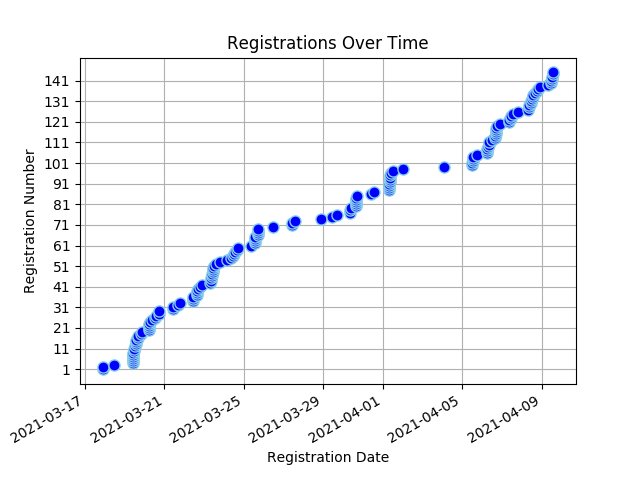
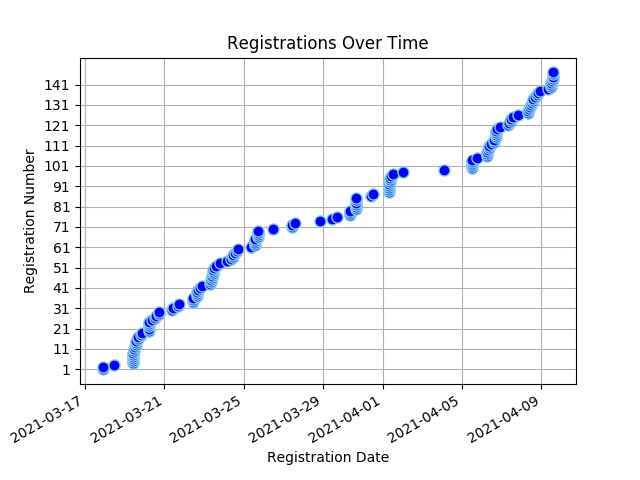
Registree stats backup on Fri 09 Apr 2021 14:44:51 SAST

Changed region(s): [[0.0625, 0.1562, 0.9062, 0.75]]

diff --git a/content/registrees/_index.md b/content/registrees/_index.md
@@ -3,9 +3,9 @@ title: Registration Stats
 draft: false
 ---
 
-<ul><li><strong>Number of Registrees</strong>: 145</li>
+<ul><li><strong>Number of Registrees</strong>: 147</li>
 
-<li><strong>Number of Clubs</strong>: 54</li>
+<li><strong>Number of Clubs</strong>: 55</li>
 
 <li><strong>Club With Most Attendees</strong>: Windhoek (13 registrees)</li>
 </ul><h2>Registrees</h2>
@@ -33,6 +33,6 @@ draft: false
         </tr>
     </thead>
     <tbody>
-<tr><td>Natalie Abrahams</td><td>Cape Town</td><td>410W</td></tr><tr><td>Linda Anderson</td><td>George</td><td>410W</td></tr><tr><td>Linda Baumgarten</td><td>Sea Point</td><td>410W</td></tr><tr><td>Ulrike Behrens</td><td>Windhoek</td><td>410W</td></tr><tr><td>Valencia Beukes-Williams</td><td>Kuilsriver</td><td>410W</td></tr><tr><td>JOSE BRAGA BORGES</td><td>Malmesbury</td><td>410W</td></tr><tr><td>Paul Brauteseth</td><td>Port Shepstone</td><td>410E</td></tr><tr><td>Nelle Buhrmann</td><td>Sea Point</td><td>410W</td></tr><tr><td>Herman Cadman</td><td>Stellenbosch</td><td>410W</td></tr><tr><td>Artemis Calomiris</td><td>Helderberg</td><td>410W</td></tr><tr><td>Linda Ann Cannone</td><td>Fish Hoek</td><td>410W</td></tr><tr><td>Sue Charles</td><td>Tokai</td><td>410W</td></tr><tr><td>Perry Chetty</td><td>East Coast</td><td>410E</td></tr><tr><td>Delaney Yeltsin Cloete</td><td>Eden</td><td>410W</td></tr><tr><td>Esme Cornelius</td><td>Kuilsriver</td><td>410W</td></tr><tr><td>Sharon Cottle</td><td>Groote Schuur</td><td>410W</td></tr><tr><td>Peter Daniel</td><td>Gordons Bay</td><td>410W</td></tr><tr><td>Norma Daniel</td><td>Gordons Bay</td><td>410W</td></tr><tr><td>Engela de Kock</td><td>Swellendam</td><td>410W</td></tr><tr><td>Francois de Kock</td><td>Swellendam</td><td>410W</td></tr><tr><td>ANDRE DE VILLIERS</td><td>Malgas</td><td>410W</td></tr><tr><td>Peggy Du Plooy</td><td>Krugersdorp</td><td>410E</td></tr><tr><td>Ivan Du Plooy</td><td>Krugersdorp</td><td>410E</td></tr><tr><td>Desiree du Toit</td><td>Ramsgate</td><td>410E</td></tr><tr><td>Natalie Etridge</td><td>Sedgefield</td><td>410W</td></tr><tr><td>AIDAN Ewers</td><td>Newlands</td><td>410W</td></tr><tr><td>Roger Fahrbach</td><td>Windhoek</td><td>410W</td></tr><tr><td>Beate Fahrbach</td><td>Windhoek</td><td>410W</td></tr><tr><td>Charles Flanagan</td><td>Tokai</td><td>410W</td></tr><tr><td>Jules Flanagan</td><td>Tokai</td><td>410W</td></tr><tr><td>Martin Froise</td><td>Letaba Tzaneen</td><td>410E</td></tr><tr><td>Valerie Graham</td><td>Nelspruit</td><td>410E</td></tr><tr><td>Mike Graham</td><td>Nelspruit</td><td>410E</td></tr><tr><td>Viv Grater</td><td>Sedgefield</td><td>410W</td></tr><tr><td>Mattheus Groves</td><td>Sedgefield</td><td>410W</td></tr><tr><td>Barbara Haywood</td><td>Eden</td><td>410W</td></tr><tr><td>Mike Heathcote</td><td>Port Shepstone</td><td>410E</td></tr><tr><td>Zarina Hendricks</td><td>Athlone</td><td>410W</td></tr><tr><td>Dorothy Hess</td><td>Kuilsriver</td><td>410W</td></tr><tr><td>Wendy Higgins</td><td>Wilro Park</td><td>410E</td></tr><tr><td>Jacqui Hocking</td><td>Midrand</td><td>410E</td></tr><tr><td>Cliff Hocking</td><td>Midrand</td><td>410E</td></tr><tr><td>Liz Houston</td><td>Table View</td><td>410W</td></tr><tr><td>John Houston</td><td>Table View</td><td>410W</td></tr><tr><td>Alna Jackson</td><td>Pretoria Jakaranda</td><td>410E</td></tr><tr><td>Dawid Jacobs</td><td>Durbanville</td><td>410W</td></tr><tr><td>Jean Jacobs</td><td>Mitchells Plain</td><td>410W</td></tr><tr><td>WOLSLEY Jacobson</td><td>Cape Town</td><td>410W</td></tr><tr><td>MALCOLM JOHNSTON</td><td>Standerton</td><td>410E</td></tr><tr><td>Grant Jonathan</td><td>Gordons Bay</td><td>410W</td></tr><tr><td>Jerome Kern</td><td>Groote Schuur</td><td>410W</td></tr><tr><td>Ian King</td><td>Alberton</td><td>410E</td></tr><tr><td>Muya Koloko</td><td>Durbanville</td><td>410W</td></tr><tr><td>Zwaai Kruger</td><td>Sedgefield</td><td>410W</td></tr><tr><td>Bevil Lakay</td><td>Mitchells Plain</td><td>410W</td></tr><tr><td>Paula Lang</td><td>Gordons Bay</td><td>410W</td></tr><tr><td>Jimmy Lang</td><td>Gordons Bay</td><td>410W</td></tr><tr><td>Heather Lee</td><td>Cape Of Good Hope</td><td>410W</td></tr><tr><td>Zarina Luck</td><td>Newcastle</td><td>410E</td></tr><tr><td>Sharon Mangwende</td><td>Cape Town</td><td>410W</td></tr><tr><td>Beaulieu Mare</td><td>Benoni Lakes</td><td>410E</td></tr><tr><td>Nick Maré</td><td>Benoni Lakes</td><td>410E</td></tr><tr><td>Jean Masson</td><td>Port Shepstone</td><td>410E</td></tr><tr><td>LANCE MAYTHAM</td><td>Swellendam</td><td>410W</td></tr><tr><td>ROSEMARIE MAYTHAM</td><td>Swellendam</td><td>410W</td></tr><tr><td>David Mccullough</td><td>Pretoria South</td><td>410E</td></tr><tr><td>Rochelle McDonald</td><td>Vereeniging</td><td>410E</td></tr><tr><td>Alec McKerrow</td><td>Port Alfred</td><td>410E</td></tr><tr><td>Stuart McPherson</td><td>Newlands</td><td>410E</td></tr><tr><td>Mark Meltzer</td><td>The Wilds</td><td>410E</td></tr><tr><td>Denis Meyer</td><td>Port Shepstone</td><td>410E</td></tr><tr><td>Roy Michas</td><td>Midrand</td><td>410E</td></tr><tr><td>Dawn Michas</td><td>Midrand</td><td>410E</td></tr><tr><td>BERNICE MILLS</td><td>Centurion</td><td>410E</td></tr><tr><td>Patrick Mills</td><td>Centurion</td><td>410E</td></tr><tr><td>Cherie Milosevich</td><td>Milnerton</td><td>410W</td></tr><tr><td>Alana Mitchell</td><td>Rustenburg</td><td>410E</td></tr><tr><td>Juan Mitchell</td><td>Rustenburg</td><td>410E</td></tr><tr><td>Virginia Mkhize</td><td>Cape Town</td><td>410W</td></tr><tr><td>Frauke E. Moeller</td><td>Windhoek</td><td>410W</td></tr><tr><td>Bernadine Moses</td><td>Cape Town</td><td>410W</td></tr><tr><td>Jacques Mostert</td><td>Merriman</td><td>410W</td></tr><tr><td>Suzanne Murray</td><td>Vereeniging</td><td>410E</td></tr><tr><td>Pieter Myburg</td><td>Wellington</td><td>410W</td></tr><tr><td>Pieter Nel</td><td>George</td><td>410W</td></tr><tr><td>Tillie Nel</td><td>Eden</td><td>410W</td></tr><tr><td>Mike Newlands</td><td>Port Alfred</td><td>410E</td></tr><tr><td>Mike Newlands</td><td>Port Alfred</td><td>410E</td></tr><tr><td>Chris Ocker</td><td>Fish Hoek</td><td>410W</td></tr><tr><td>Jenny Ocker</td><td>Fish Hoek</td><td>410W</td></tr><tr><td>Debra Olivier</td><td>Sedgefield</td><td>410W</td></tr><tr><td>Teresa Pantoleon</td><td>Vereeniging</td><td>410E</td></tr><tr><td>Sundru Pillay</td><td>Durbanville</td><td>410W</td></tr><tr><td>BRIAN PORTEOUS</td><td>Hibberdene</td><td>410E</td></tr><tr><td>Mary-Anne Ras</td><td>Swellendam</td><td>410W</td></tr><tr><td>Hugo Reniers</td><td>Nelspruit</td><td>410E</td></tr><tr><td>Mark Rossouw</td><td>Tokai</td><td>410W</td></tr><tr><td>Irene Rugheimer</td><td>Bedfordview</td><td>410E</td></tr><tr><td>Ingrid Russell</td><td>Fish Hoek</td><td>410W</td></tr><tr><td>Sharon Sampie</td><td>Bergvliet</td><td>410W</td></tr><tr><td>Frank Schatz</td><td>Windhoek</td><td>410W</td></tr><tr><td>Vera Schatz</td><td>Windhoek</td><td>410W</td></tr><tr><td>Vera Schatz</td><td>Windhoek</td><td>410W</td></tr><tr><td>Francis Searle</td><td>Kouga</td><td>410E</td></tr><tr><td>Gloria Searle</td><td>Kouga</td><td>410E</td></tr><tr><td>Ami Sell</td><td>Windhoek</td><td>410W</td></tr><tr><td>Beryl Simpson</td><td>Cape Town</td><td>410W</td></tr><tr><td>Kenlis Sircoulomb</td><td>Windhoek</td><td>410W</td></tr><tr><td>Holger Sircoulomb</td><td>Windhoek</td><td>410W</td></tr><tr><td>Hennie Smeer</td><td>Windhoek</td><td>410W</td></tr><tr><td>Sue Smit</td><td>Centurion</td><td>410E</td></tr><tr><td>Herman Smit</td><td>Swellendam</td><td>410W</td></tr><tr><td>Jeff Smith</td><td>Port Shepstone</td><td>410E</td></tr><tr><td>LYN SNYMAN</td><td>Deep South</td><td>410W</td></tr><tr><td>Diana Sochen</td><td>Sea Point</td><td>410W</td></tr><tr><td>Max Stander</td><td>Port Alfred</td><td>410E</td></tr><tr><td>Ashley Stander</td><td>Krugersdorp</td><td>410E</td></tr><tr><td>Brett Jason Stander</td><td>Krugersdorp</td><td>410E</td></tr><tr><td>RORY stier</td><td>Deep South</td><td>410W</td></tr><tr><td>Patrick Strauss</td><td>Kuilsriver</td><td>410W</td></tr><tr><td>Lauryn Talbot</td><td>Benoni Lakes</td><td>410E</td></tr><tr><td>Diane Townsend</td><td>Benoni Lakes</td><td>410E</td></tr><tr><td>Diane Townsend</td><td>Benoni Lakes</td><td>410E</td></tr><tr><td>Alistair Tuckett</td><td>Roodepoort Clearwater Cyber</td><td>410E</td></tr><tr><td>Carl van Blerk</td><td>Eden</td><td>410W</td></tr><tr><td>HILARY LISE VAN BREDA</td><td>Cape Town</td><td>410W</td></tr><tr><td>Marina Van de Merwe</td><td>Malmesbury</td><td>410W</td></tr><tr><td>Sydney van Heerden</td><td>Wilro Park</td><td>410E</td></tr><tr><td>Sandy van Heerden</td><td>Wilro Park</td><td>410E</td></tr><tr><td>Neville Van Rensburg</td><td>Moorreesburg</td><td>410W</td></tr><tr><td>Johan van Rensburg</td><td>Windhoek</td><td>410W</td></tr><tr><td>Anne van Rensburg</td><td>Windhoek</td><td>410W</td></tr><tr><td>Jeannie van Wulven</td><td>Tygerberg Hills</td><td>410W</td></tr><tr><td>Alan van Wulven</td><td>Tygerberg Hills</td><td>410W</td></tr><tr><td>Deon van Wulven</td><td>Tygerberg Hills</td><td>410W</td></tr><tr><td>Kim van Wyk</td><td>North Durban</td><td>410E</td></tr><tr><td>Lindie van Wyk</td><td>Pretoria Jakaranda</td><td>410E</td></tr><tr><td>Edith Van Wyk-Nelson</td><td>Kuilsriver</td><td>410W</td></tr><tr><td>Brian von der Decken</td><td>King William's Town</td><td>410E</td></tr><tr><td>Rinette Von Mollendorf</td><td>Durbanville</td><td>410W</td></tr><tr><td>Rochelle Vorster</td><td>Sedgefield</td><td>410W</td></tr><tr><td>Alastair Warman</td><td>Port Shepstone</td><td>410E</td></tr><tr><td>Allan Watson</td><td>Sea Point</td><td>410W</td></tr><tr><td>Neville Williamson</td><td>Port Alfred</td><td>410E</td></tr><tr><td>Judy Young</td><td>Durbanville</td><td>410W</td></tr>
+<tr><td>Natalie Abrahams</td><td>Cape Town</td><td>410W</td></tr><tr><td>Linda Anderson</td><td>George</td><td>410W</td></tr><tr><td>Linda Baumgarten</td><td>Sea Point</td><td>410W</td></tr><tr><td>Ulrike Behrens</td><td>Windhoek</td><td>410W</td></tr><tr><td>Valencia Beukes-Williams</td><td>Kuilsriver</td><td>410W</td></tr><tr><td>JOSE BRAGA BORGES</td><td>Malmesbury</td><td>410W</td></tr><tr><td>Paul Brauteseth</td><td>Port Shepstone</td><td>410E</td></tr><tr><td>Nelle Buhrmann</td><td>Sea Point</td><td>410W</td></tr><tr><td>Herman Cadman</td><td>Stellenbosch</td><td>410W</td></tr><tr><td>Artemis Calomiris</td><td>Helderberg</td><td>410W</td></tr><tr><td>Linda Ann Cannone</td><td>Fish Hoek</td><td>410W</td></tr><tr><td>Sue Charles</td><td>Tokai</td><td>410W</td></tr><tr><td>Perry Chetty</td><td>East Coast</td><td>410E</td></tr><tr><td>Delaney Yeltsin Cloete</td><td>Eden</td><td>410W</td></tr><tr><td>Esme Cornelius</td><td>Kuilsriver</td><td>410W</td></tr><tr><td>Sharon Cottle</td><td>Groote Schuur</td><td>410W</td></tr><tr><td>Peter Daniel</td><td>Gordons Bay</td><td>410W</td></tr><tr><td>Norma Daniel</td><td>Gordons Bay</td><td>410W</td></tr><tr><td>Engela de Kock</td><td>Swellendam</td><td>410W</td></tr><tr><td>Francois de Kock</td><td>Swellendam</td><td>410W</td></tr><tr><td>ANDRE DE VILLIERS</td><td>Malgas</td><td>410W</td></tr><tr><td>Peggy Du Plooy</td><td>Krugersdorp</td><td>410E</td></tr><tr><td>Ivan Du Plooy</td><td>Krugersdorp</td><td>410E</td></tr><tr><td>Desiree du Toit</td><td>Ramsgate</td><td>410E</td></tr><tr><td>Natalie Etridge</td><td>Sedgefield</td><td>410W</td></tr><tr><td>AIDAN Ewers</td><td>Newlands</td><td>410W</td></tr><tr><td>Roger Fahrbach</td><td>Windhoek</td><td>410W</td></tr><tr><td>Beate Fahrbach</td><td>Windhoek</td><td>410W</td></tr><tr><td>Charles Flanagan</td><td>Tokai</td><td>410W</td></tr><tr><td>Jules Flanagan</td><td>Tokai</td><td>410W</td></tr><tr><td>Martin Froise</td><td>Letaba Tzaneen</td><td>410E</td></tr><tr><td>Valerie Graham</td><td>Nelspruit</td><td>410E</td></tr><tr><td>Mike Graham</td><td>Nelspruit</td><td>410E</td></tr><tr><td>Viv Grater</td><td>Sedgefield</td><td>410W</td></tr><tr><td>Mattheus Groves</td><td>Sedgefield</td><td>410W</td></tr><tr><td>Barbara Haywood</td><td>Eden</td><td>410W</td></tr><tr><td>Mike Heathcote</td><td>Port Shepstone</td><td>410E</td></tr><tr><td>Zarina Hendricks</td><td>Athlone</td><td>410W</td></tr><tr><td>Dorothy Hess</td><td>Kuilsriver</td><td>410W</td></tr><tr><td>Wendy Higgins</td><td>Wilro Park</td><td>410E</td></tr><tr><td>Jacqui Hocking</td><td>Midrand</td><td>410E</td></tr><tr><td>Cliff Hocking</td><td>Midrand</td><td>410E</td></tr><tr><td>Liz Houston</td><td>Table View</td><td>410W</td></tr><tr><td>John Houston</td><td>Table View</td><td>410W</td></tr><tr><td>Alna Jackson</td><td>Pretoria Jakaranda</td><td>410E</td></tr><tr><td>Dawid Jacobs</td><td>Durbanville</td><td>410W</td></tr><tr><td>Jean Jacobs</td><td>Mitchells Plain</td><td>410W</td></tr><tr><td>WOLSLEY Jacobson</td><td>Cape Town</td><td>410W</td></tr><tr><td>MALCOLM JOHNSTON</td><td>Standerton</td><td>410E</td></tr><tr><td>Grant Jonathan</td><td>Gordons Bay</td><td>410W</td></tr><tr><td>Jerome Kern</td><td>Groote Schuur</td><td>410W</td></tr><tr><td>Ian King</td><td>Alberton</td><td>410E</td></tr><tr><td>Muya Koloko</td><td>Durbanville</td><td>410W</td></tr><tr><td>Zwaai Kruger</td><td>Sedgefield</td><td>410W</td></tr><tr><td>Bevil Lakay</td><td>Mitchells Plain</td><td>410W</td></tr><tr><td>Paula Lang</td><td>Gordons Bay</td><td>410W</td></tr><tr><td>Jimmy Lang</td><td>Gordons Bay</td><td>410W</td></tr><tr><td>Heather Lee</td><td>Cape Of Good Hope</td><td>410W</td></tr><tr><td>Zarina Luck</td><td>Newcastle</td><td>410E</td></tr><tr><td>Sharon Mangwende</td><td>Cape Town</td><td>410W</td></tr><tr><td>Beaulieu Mare</td><td>Benoni Lakes</td><td>410E</td></tr><tr><td>Nick Maré</td><td>Benoni Lakes</td><td>410E</td></tr><tr><td>Jean Masson</td><td>Port Shepstone</td><td>410E</td></tr><tr><td>LANCE MAYTHAM</td><td>Swellendam</td><td>410W</td></tr><tr><td>ROSEMARIE MAYTHAM</td><td>Swellendam</td><td>410W</td></tr><tr><td>David Mccullough</td><td>Pretoria South</td><td>410E</td></tr><tr><td>Rochelle McDonald</td><td>Vereeniging</td><td>410E</td></tr><tr><td>Alec McKerrow</td><td>Port Alfred</td><td>410E</td></tr><tr><td>Stuart McPherson</td><td>Newlands</td><td>410E</td></tr><tr><td>Mark Meltzer</td><td>The Wilds</td><td>410E</td></tr><tr><td>Denis Meyer</td><td>Port Shepstone</td><td>410E</td></tr><tr><td>Roy Michas</td><td>Midrand</td><td>410E</td></tr><tr><td>Dawn Michas</td><td>Midrand</td><td>410E</td></tr><tr><td>BERNICE MILLS</td><td>Centurion</td><td>410E</td></tr><tr><td>Patrick Mills</td><td>Centurion</td><td>410E</td></tr><tr><td>Cherie Milosevich</td><td>Milnerton</td><td>410W</td></tr><tr><td>Alana Mitchell</td><td>Rustenburg</td><td>410E</td></tr><tr><td>Juan Mitchell</td><td>Rustenburg</td><td>410E</td></tr><tr><td>Virginia Mkhize</td><td>Cape Town</td><td>410W</td></tr><tr><td>Frauke E. Moeller</td><td>Windhoek</td><td>410W</td></tr><tr><td>Bernadine Moses</td><td>Cape Town</td><td>410W</td></tr><tr><td>Jacques Mostert</td><td>Merriman</td><td>410W</td></tr><tr><td>Suzanne Murray</td><td>Vereeniging</td><td>410E</td></tr><tr><td>Pieter Myburg</td><td>Wellington</td><td>410W</td></tr><tr><td>Pieter Nel</td><td>George</td><td>410W</td></tr><tr><td>Tillie Nel</td><td>Eden</td><td>410W</td></tr><tr><td>Mike Newlands</td><td>Port Alfred</td><td>410E</td></tr><tr><td>Mike Newlands</td><td>Port Alfred</td><td>410E</td></tr><tr><td>Chris Ocker</td><td>Fish Hoek</td><td>410W</td></tr><tr><td>Jenny Ocker</td><td>Fish Hoek</td><td>410W</td></tr><tr><td>Debra Olivier</td><td>Sedgefield</td><td>410W</td></tr><tr><td>Teresa Pantoleon</td><td>Vereeniging</td><td>410E</td></tr><tr><td>Sundru Pillay</td><td>Durbanville</td><td>410W</td></tr><tr><td>Tracey Polkinghorne</td><td>Kensington</td><td>410E</td></tr><tr><td>Gavin Polkinghorne</td><td>Kensington</td><td>410E</td></tr><tr><td>BRIAN PORTEOUS</td><td>Hibberdene</td><td>410E</td></tr><tr><td>Mary-Anne Ras</td><td>Swellendam</td><td>410W</td></tr><tr><td>Hugo Reniers</td><td>Nelspruit</td><td>410E</td></tr><tr><td>Mark Rossouw</td><td>Tokai</td><td>410W</td></tr><tr><td>Irene Rugheimer</td><td>Bedfordview</td><td>410E</td></tr><tr><td>Ingrid Russell</td><td>Fish Hoek</td><td>410W</td></tr><tr><td>Sharon Sampie</td><td>Bergvliet</td><td>410W</td></tr><tr><td>Frank Schatz</td><td>Windhoek</td><td>410W</td></tr><tr><td>Vera Schatz</td><td>Windhoek</td><td>410W</td></tr><tr><td>Vera Schatz</td><td>Windhoek</td><td>410W</td></tr><tr><td>Francis Searle</td><td>Kouga</td><td>410E</td></tr><tr><td>Gloria Searle</td><td>Kouga</td><td>410E</td></tr><tr><td>Ami Sell</td><td>Windhoek</td><td>410W</td></tr><tr><td>Beryl Simpson</td><td>Cape Town</td><td>410W</td></tr><tr><td>Kenlis Sircoulomb</td><td>Windhoek</td><td>410W</td></tr><tr><td>Holger Sircoulomb</td><td>Windhoek</td><td>410W</td></tr><tr><td>Hennie Smeer</td><td>Windhoek</td><td>410W</td></tr><tr><td>Sue Smit</td><td>Centurion</td><td>410E</td></tr><tr><td>Herman Smit</td><td>Swellendam</td><td>410W</td></tr><tr><td>Jeff Smith</td><td>Port Shepstone</td><td>410E</td></tr><tr><td>LYN SNYMAN</td><td>Deep South</td><td>410W</td></tr><tr><td>Diana Sochen</td><td>Sea Point</td><td>410W</td></tr><tr><td>Max Stander</td><td>Port Alfred</td><td>410E</td></tr><tr><td>Ashley Stander</td><td>Krugersdorp</td><td>410E</td></tr><tr><td>Brett Jason Stander</td><td>Krugersdorp</td><td>410E</td></tr><tr><td>RORY stier</td><td>Deep South</td><td>410W</td></tr><tr><td>Patrick Strauss</td><td>Kuilsriver</td><td>410W</td></tr><tr><td>Lauryn Talbot</td><td>Benoni Lakes</td><td>410E</td></tr><tr><td>Diane Townsend</td><td>Benoni Lakes</td><td>410E</td></tr><tr><td>Diane Townsend</td><td>Benoni Lakes</td><td>410E</td></tr><tr><td>Alistair Tuckett</td><td>Roodepoort Clearwater Cyber</td><td>410E</td></tr><tr><td>Carl van Blerk</td><td>Eden</td><td>410W</td></tr><tr><td>HILARY LISE VAN BREDA</td><td>Cape Town</td><td>410W</td></tr><tr><td>Marina Van de Merwe</td><td>Malmesbury</td><td>410W</td></tr><tr><td>Sydney van Heerden</td><td>Wilro Park</td><td>410E</td></tr><tr><td>Sandy van Heerden</td><td>Wilro Park</td><td>410E</td></tr><tr><td>Neville Van Rensburg</td><td>Moorreesburg</td><td>410W</td></tr><tr><td>Johan van Rensburg</td><td>Windhoek</td><td>410W</td></tr><tr><td>Anne van Rensburg</td><td>Windhoek</td><td>410W</td></tr><tr><td>Jeannie van Wulven</td><td>Tygerberg Hills</td><td>410W</td></tr><tr><td>Alan van Wulven</td><td>Tygerberg Hills</td><td>410W</td></tr><tr><td>Deon van Wulven</td><td>Tygerberg Hills</td><td>410W</td></tr><tr><td>Kim van Wyk</td><td>North Durban</td><td>410E</td></tr><tr><td>Lindie van Wyk</td><td>Pretoria Jakaranda</td><td>410E</td></tr><tr><td>Edith Van Wyk-Nelson</td><td>Kuilsriver</td><td>410W</td></tr><tr><td>Brian von der Decken</td><td>King William's Town</td><td>410E</td></tr><tr><td>Rinette Von Mollendorf</td><td>Durbanville</td><td>410W</td></tr><tr><td>Rochelle Vorster</td><td>Sedgefield</td><td>410W</td></tr><tr><td>Alastair Warman</td><td>Port Shepstone</td><td>410E</td></tr><tr><td>Allan Watson</td><td>Sea Point</td><td>410W</td></tr><tr><td>Neville Williamson</td><td>Port Alfred</td><td>410E</td></tr><tr><td>Judy Young</td><td>Durbanville</td><td>410W</td></tr>
 </tbody>
 </table>

diff --git a/content/full_stats/_index.md b/content/full_stats/_index.md
@@ -16,17 +16,17 @@ draft: false
 </head>
 <body>
 <h1 style="color: #000000;">Full Registration Stats</h1>
-<ul><li><strong>Number of Registrees</strong>: 145</li>
-<li><strong>Number of Clubs</strong>: 54</li>
+<ul><li><strong>Number of Registrees</strong>: 147</li>
+<li><strong>Number of Clubs</strong>: 55</li>
 <li><strong>Club With Most Attendees</strong>: Windhoek (13 registrees)</li>
 
 <li><strong>Number of District 410W Convention Attendees</strong>: 87</li>
 <li><strong>Number of District 410W Convention Voters</strong>: 39</li>
-<li><strong>Number of District 410E Convention Attendees</strong>: 55</li>
-<li><strong>Number of District 410E Convention Voters</strong>: 32</li>
+<li><strong>Number of District 410E Convention Attendees</strong>: 57</li>
+<li><strong>Number of District 410E Convention Voters</strong>: 33</li>
 
-<li><strong>Number of MD410 Convention Attendees</strong>: 124</li>
-<li><strong>Number of MD410 Convention Voters</strong>: 66</li>
+<li><strong>Number of MD410 Convention Attendees</strong>: 126</li>
+<li><strong>Number of MD410 Convention Voters</strong>: 67</li>
 
 </ul>
 <h2>Registrees</h2>
@@ -1079,6 +1079,28 @@ draft: false
 <td>410W</td>
 <td>No</td>
 <td>No</td>
+<td style="background-color: lightgreen">Yes</td>
+<td>No</td>
+</tr>
+
+    
+<td>155</td>
+<td>Tracey Polkinghorne</td>
+<td>Kensington</td>
+<td>410E</td>
+<td style="background-color: lightgreen">Yes</td>
+<td style="background-color: lightgreen">Yes</td>
+<td style="background-color: lightgreen">Yes</td>
+<td>No</td>
+</tr>
+
+    
+<td>156</td>
+<td>Gavin Polkinghorne</td>
+<td>Kensington</td>
+<td>410E</td>
+<td>No</td>
+<td style="background-color: lightgreen">Yes</td>
 <td style="background-color: lightgreen">Yes</td>
 <td>No</td>
 </tr>
